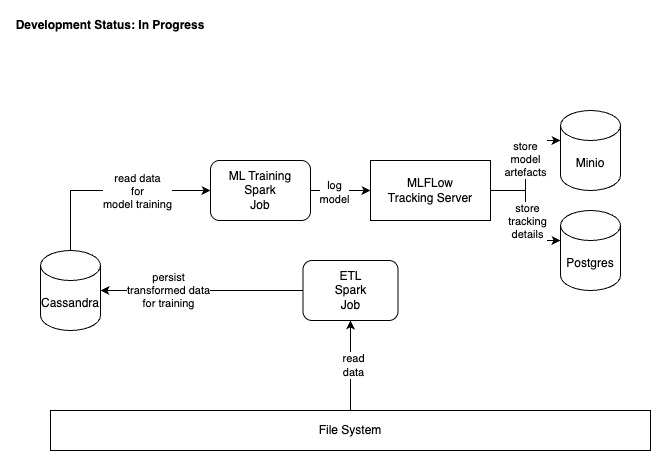
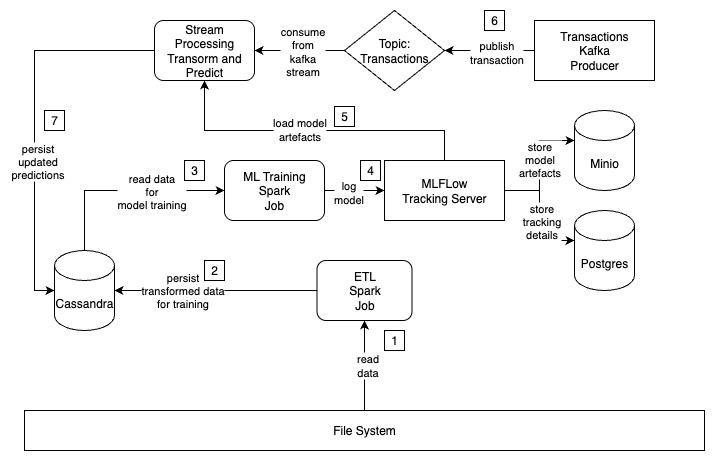
feat: update docs

diff --git a/README.md b/README.md
@@ -1,4 +1,4 @@
-# 🚀 Credit Card Fraud Detection (E2E System)
+# 🚀 Credit Card Fraud Detection System
 
 This project is an **end-to-end system** for detecting fraudulent credit card transactions.  
 It integrates **data engineering, model training, and experiment tracking** into a production-ready architecture.  
@@ -24,12 +24,12 @@ The system is being extended with **streaming ingestion (Kafka + Spark Streaming
 5. **MLflow Tracking Server** → Logs trained models and experiment metadata.  
    - **MinIO** → Stores ML models and artifacts.  
    - **Postgres** → Stores MLflow experiment and run metadata.  
-
+6. **Stream Processing Job** -> Consumes new transactions from kafka stream, transform, predict and persist 
+7. **Kafka Producer** -> Generates transactions and publishes to topic
 ---
 
 ## 🔮 Planned Extensions
-- **Kafka Producer** → Mock producer to stream transactions.  
-- **Spark Streaming** → Real-time ingestion and feature transformation.  
+
 - **Fraud Monitoring UI** → Dashboard for monitoring and reviewing suspicious transactions.  
 
 ---
@@ -37,6 +37,7 @@ The system is being extended with **streaming ingestion (Kafka + Spark Streaming
 ## 🛠 Tech Stack
 - **Apache Spark** (Batch + Streaming)  
 - **Apache Cassandra** (Database + Feature store)  
+- **Apache Kafka** (Real-time transaction streaming) 
 - **MLflow** (Experiment tracking & model registry)  
 - **MinIO** (Artifact storage)  
 - **Postgres** (Metadata store)  
